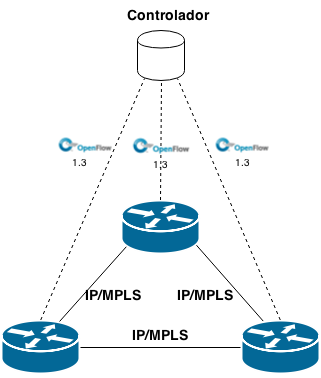
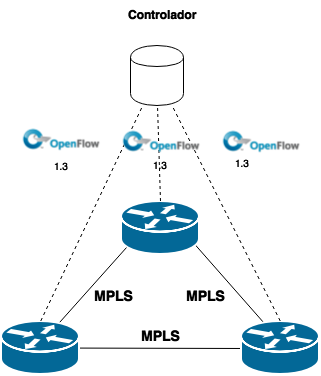
Correcciones en apendices 4 y 5 se cambia a fuente courier en lo que sea referencias a comandos y se actualzia imagen

diff --git a/Informe/Appendix3/appendix3.tex b/Informe/Appendix3/appendix3.tex
@@ -58,14 +58,15 @@ Estos atributos fueron estudiados uno por uno y se llega a las dos listas presen
 \section{Sintaxis de un flujo en Open vSwitch}
 La sintaxis del comando ovs-ofctl, utilizado para agregar un flujo en la tabla de Open vSwitch es la siguiente:
 
+
 \begin{center}
-ovs-ofctl add-flow <bridge> <flow>
+\texttt{ovs-ofctl add-flow <bridge> <flow>}
 \end{center}
 
 Los parámetros de este comando son el nombre del brdige (<bridge>) y el flujo definido. La sintaxis de un flujo es la siguiente:
 
 \begin{center}
-attr1\_name=<value>,attr2\_name=<value>,.. actions=<action1>,<action2>,...
+\texttt{attr1\_name=<value>,attr2\_name=<value>,.. actions=<action1>,<action2>,...}
 \end{center}
 
 Primero tiene una lista de pares atributo valor separados por una “,” las cuales definen la regla de un flujo; es decir, los campos del cabezal OpenFlow utilizados para aparear tr\'afico. Un ejemplo común es es utilizar el numero de puerto OpenFlow de entrada, in\_port=1 por ejemplo.
@@ -85,93 +86,93 @@ A continuaci\'on se detallan los atributos soportados para la definici\'on de re
 \item \textbf{eth\_dst}: Permite a un flujo seleccionar tr\'afico distinguiendo por la direcci\'on destino de capa 2 (dirección MAC). El valor utilizado se compone de 6 pares de hexadecimales.
 
 \begin{center}
-ovs-ofctl add-flow <bridge> dl\_dst=<mac>,actions=<action>
+\texttt{ovs-ofctl add-flow <bridge> dl\_dst=<mac>,actions=<action>}
 \end{center}
 
 \item \textbf{eth\_src}: Permite a un flujo selecionar tr\'afico distinguiendo por direcci\'on origen de capa 2 (direcci\'on MAC). El valor utilizado se compone de 6 pares de hexadecimales.
 
 \begin{center}
-ovs-ofctl add-flow <bridge> dl\_src=<mac>,actions=<action>
+\texttt{ovs-ofctl add-flow <bridge> dl\_src=<mac>,actions=<action>}
 \end{center}
 
 \item \textbf{dl\_type}: Permite a un flujo selecionar tr\'afico distinguiendo por el tipo de ethertype de un paquete. Se utiliza como valor el c\'odigo hexadecimal de cada protocolo.
 
 \begin{center}
-ovs-ofctl add-flow <bridge> dl\_type=<ethernet type>,actions=<action>
+\texttt{ovs-ofctl add-flow <bridge> dl\_type=<ethernet type>, actions=<action>}
 \end{center}
 
 \item \textbf{vlan\_vID}: Permite a un flujo selecionar tr\'afico distinguiendo por el ID de VLAN. El valor de vlan\_id es un entero en el rango 0-4095.
 
 \begin{center}
-ovs-ofctl add-flow <bridge> dl\_vlan=<vlanid>,actions=<action>
+\texttt{ovs-ofctl add-flow <bridge> dl\_vlan=<vlanid>,actions=<action>}
 \end{center}
 
 \item \textbf{vlan\_PCP}: Permite a un flujo selecionar tr\'afico distinguiendo por el valor de prioridad de VLAN. El valor dl\_vlan\_pcp es un entero en el rango 0-7.
 
 \begin{center}
-ovs-ofctl add-flow <bridge> dl\_vlan\_pcp=<value>,actions=<action>
+\texttt{ovs-ofctl add-flow <bridge> dl\_vlan\_pcp=<value>,actions=<action>}
 \end{center}
 
 \item \textbf{IP\_dscp}: Permite a un flujo selecionar tr\'afico distinguiendo por los campos IP TOS/DHCP o Ipv6 traffic class field en un paquete IP, dependiendo del dl\_type utilizado. Se utiliza junto con los valores de dl\_type 0x0800 para IPv4 y 0x86DD para IPv6. Para otros valores de dl\_type el valor del campo nw\_tos es ignorado. El atributo nw\_tos toma valores en el rango 0-255.
 
 \begin{center}
-ovs-ofctl add-flow <bridge> dl\_type=<ethernet type>, nw\_tos=<tos>, actions=<action>
+\texttt{ovs-ofctl add-flow <bridge> dl\_type=<ethernet type>, nw\_tos=<tos>, actions=<action>}
 \end{center}
 
 \item \textbf{IP\_ecn}: Permite a un flujo selecionar tr\'afico distinguiendo por el valor de los bits ECN (Explicit Congestion) en un paquete IP. Cuando el valor del campo dl\_type es 0x0800 aparea los bits ecn en el campo IP TOS IPv4 mientras que cuando se utiliza el valor 0x86DD aparea los campos de clase de tr\'afico (trafic class fields) de IPv6. Si se utiliza otro valor de dl\_type estos bits son ignorados. El campo nw\_ecn toma valores en el rango 0-3.
 
 \begin{center}
-ovs-ofctl add-flow <bridge> dl\_type=<ethernet type>, nw\_ecn=<ecn>,actions=<action>
+\texttt{ovs-ofctl add-flow <bridge> dl\_type=<ethernet type>, nw\_ecn=<ecn>,actions=<action>}
 \end{center}
 
 \item \textbf{IP\_proto}: Se utiliza para indicar el protocolo IP utilizado en la deinici\'on de un flujo. Usualmente se utiliza en conjunto con otros atributos como tp\_src y tp\_dst. Cuando se utiliza el valor del campo dl\_type debe ser o 0x0800 en el caso de IPv4 o 0x86DD para el caso IPv6. El campo nw\_proto es el n\'umero de protocolo IP (valores en el rango 0-255).
 
 \begin{center}
-ovs-ofctl add-flow <bridge> dl\_type=<ethernet type>,nw\_proto=<proto>,actions=<action>
+\texttt{ovs-ofctl add-flow <bridge> dl\_type=<ethernet type>,nw\_proto=<proto>,actions=<action>}
 \end{center}
 
 \item \textbf{IPv4\_src}: Permite a un flujo seleccionar tr\'afico distinguiendo por la dirección origen IPv4. Se debe indicar para el campo dl\_type el valor 0x0800.  
 
 \begin{center}
-ovs-ofctl add-flow <bridge> dl\_type=<ethernet type>,nw\_src=ip[/netmask],actions=<action>
+\texttt{ovs-ofctl add-flow <bridge> dl\_type=<ethernet type>, nw\_src=ip[/netmask],actions=<action>}
 \end{center}
 
 \item \textbf{IPv4\_dst}: Permite a un flujo seleccionar tr\'afico distinguiendo por la dirección destino IPv4. Se debe indicar para el campo dl\_type el valor 0x0800.  
 
 \begin{center}
-ovs-ofctl add-flow <bridge> dl\_type=<ethernet type>,nw\_dst=ip[/netmask],actions=<action>
+\texttt{ovs-ofctl add-flow <bridge> dl\_type=<ethernet type>, nw\_dst=ip[/netmask],actions=<action>}
 \end{center}
  
 \item \textbf{TCP\_src}: Permite a un flujo seleccionar tr\'afico distinguiendo por el n\'umero de puerto TCP origen. Se debe indicar para el campo dl\_type el valor 0x0800 (IPv4) y para el campo nw\_proto el valor 6 (TCP). El campo tp\_src toma valores en el rango 0-65535.
 
 \begin{center}
-ovs-ofctl add-flow <bridge> dl\_type=0x0800,nw\_proto=6,tp\_src=<port>,actions=<action>
+\texttt{ovs-ofctl add-flow <bridge> dl\_type=0x0800, nw\_proto=6,tp\_src=<port>,actions=<action>}
 \end{center}
 
 De forma análoga se utilizan los campos UDP\_src y SCP\_src para clasificar tr\'afico por los puertos origen UDP y SCTP.
 
 \begin{center}
-ovs-ofctl add-flow <bridge> dl\_type=0x0800,nw\_proto=17,tp\_src=<port>,actions=<action>
+\texttt{ovs-ofctl add-flow <bridge> dl\_type=0x0800, nw\_proto=17,tp\_src=<port>,actions=<action>}
 \end{center}
 
 \begin{center}
-ovs-ofctl add-flow <bridge> dl\_type=0x0800,nw\_proto=132,tp\_src=<port>,actions=<action>
+\texttt{ovs-ofctl add-flow <bridge> dl\_type=0x0800, nw\_proto=132,tp\_src=<port>,actions=<action>}
 \end{center}
 
 \item \textbf{TCP\_dst}: Permite a un flujo seleccionar tr\'afico distinguiendo por el n\'umero de puerto TCP destino. Se debe indicar para el campo dl\_type el valor 0x0800 (IPv4) y para el campo nw\_proto el valor 6 (TCP). El campo tp\_dst toma valores en el rango 0-65535.
 
 \begin{center}
-ovs-ofctl add-flow <bridge> dl\_type=0x0800,nw\_proto=6,tp\_dst=<port>,actions=<action>
+\texttt{ovs-ofctl add-flow <bridge> dl\_type=0x0800, nw\_proto=6,tp\_dst=<port>,actions=<action>}
 \end{center}
 
 De forma análoga se utilizan los campos UDP\_dst y SCP\_dst para clasificar tr\'afico por los puertos destino UDP y SCTP.
 
 \begin{center}
-ovs-ofctl add-flow <bridge> dl\_type=0x0800,nw\_proto=17,tp\_dst=<port>,actions=<action>
+\texttt{ovs-ofctl add-flow <bridge> dl\_type=0x0800, nw\_proto=17,tp\_dst=<port>,actions=<action>}
 \end{center}
 
 \begin{center}
-ovs-ofctl add-flow <bridge> dl\_type=0x0800,nw\_proto=132,tp\_dst=<port>,actions=<action>
+\texttt{ovs-ofctl add-flow <bridge> dl\_type=0x0800, nw\_proto=132,tp\_dst=<port>,actions=<action>}
 \end{center}
 
 %\item \textbf{UDP\_src}: Permite a un flujo seleccionar tr\'afico distinguiendo por el n\'umero de puerto UDP origen. Se debe indicar para el campo dl\_type el valor 0x0800 (IPv4) y para el campo nw\_proto el valor 17 (UDP). El campo tp\_src toma valores en el rango 0 \dots 65535.
@@ -201,25 +202,25 @@ ovs-ofctl add-flow <bridge> dl\_type=0x0800,nw\_proto=132,tp\_dst=<port>,actions
 \item \textbf{ICMPv4\_type}: Permite a un flujo seleccionar tr\'afico distinguiendo por tipo de paquete ICMPv4. Open vSwitch utiliza el mismo campo para la definici\'on del tipo ICMPv4 o ICMPv6 en un flujo (icmp\_type). Se debe indicar en el campo dl\_type el valor 0x0800(IPv4) o 0x86DD (IPv6) y en el campo nw\_proto el valor 1 (ICMPv4) o 58 (ICMPv6). El campo icmp\_type toma valores en el rango 0-255.
 
 \begin{center}
-ovs-ofctl add-flow<bridge> dl\_type=<ethernettype>,nw\_proto=1,icmp\_type=<type>,actions=<action>
+\texttt{ovs-ofctl add-flow<bridge> dl\_type=<ethernettype>,nw\_proto=1, icmp\_type=<type>,actions=<action>}
 \end{center}
 
 \item \textbf{ICMPv4\_code}: Permite a un flujo seleccionar tr\'afico distinguiendo por código de paquete ICMPv4. Open vSwitch utiliza el mismo campo para la definici\'on del c\'odigo ICMPv4 o ICMPv6 en un flujo (icmp\_code). Se debe indicar en el campo dl\_type el valor 0x0800 para IPv4 o 0x86DD para IPv6 y en el campo nw\_proto el valor 1 para ICMPv4 o 58 para ICMPv6 respectivamente. El campo icmp\_code toma valores en el rango 0-255.
 
 \begin{center}
-ovs-ofctl add-flow<bridge> dl\_type=<ethernettype>,nw\_proto=[1|58],icmp\_code=<type>,actions=<action>
+\texttt{ovs-ofctl add-flow<bridge> dl\_type=<ethernet type>, nw\_proto=[1|58],icmp\_code=<type>,actions=<action>}
 \end{center}
 
 \item \textbf{IPv6\_src}: Permite a un flujo seleccionar tr\'afico distinguiendo por la dirección origen IPv6. Se debe indicar para el campo dl\_type el valor 0x86DD. 
 
 \begin{center}
-ovs-ofctl add-flow<bridge> dl\_type=0x86DD,ipv6\_src=<ipv6[/netmask]>,actions=<action>
+\texttt{ovs-ofctl add-flow<bridge> dl\_type=0x86DD, ipv6\_src=<ipv6[/netmask]>,actions=<action>}
 \end{center}
 
 \item \textbf{IPv6\_dst}: Permite a un flujo seleccionar tr\'afico distinguiendo por la dirección destino IPv6. Se debe indicar para el campo dl\_type el valor 0x86DD. 
 
 \begin{center}
-ovs-ofctl add-flow<bridge> dl\_type=0x86DD,ipv6\_dst=<ipv6[/netmask]>,actions=<action>
+\texttt{ovs-ofctl add-flow<bridge> dl\_type=0x86DD, ipv6\_dst=<ipv6[/netmask]>,actions=<action>}
 \end{center}
 
 \item \textbf{ICMPv6\_type}: Ver campo ICMP\_type por ejemplo acerca de la utilización de este campo. 
@@ -229,19 +230,19 @@ ovs-ofctl add-flow<bridge> dl\_type=0x86DD,ipv6\_dst=<ipv6[/netmask]>,actions=<a
 \item \textbf{MPLS\_label}:  Permite a un flujo seleccionar tr\'afico distinguiendo por el valor de etiqueta MPLS. Se debe indicar para el campo dl\_type el valor 0x8847 o 0x8848. El campo label toma valores en el rango 0-1048575.
 
 \begin{center}
-ovs-ofctl add-flow<bridge> dl\_type=[0x8847|0x8848]ovs-ofctl,mpls\_label=<label>,actions=<action>
+\texttt{ovs-ofctl add-flow<bridge> dl\_type=[0x8847|0x8848]ovs-ofctl, mpls\_label=<label>,actions=<action>}
 \end{center}
 
 \item \textbf{MPLS\_tc}: Permite a un flujo seleccionar tr\'afico distinguiendo por el valor del campo TC en el cabezal MPLS (para uso experimental). Se debe indicar para el campo dl\_type el valor 0x8847 o 0x8848. El campo mpls\_tc toma valores en el rango 0-7.
 
 \begin{center}
-ovs-ofctl add-flow<bridge> dl\_type=[0x8847|0x8848],mpls\_tc=<tc>,actions=<action>
+\texttt{ovs-ofctl add-flow<bridge> dl\_type=[0x8847|0x8848],mpls\_tc=<tc>,actions=<action>}
 \end{center}
 
 \item \textbf{MPLS\_bos}: Permite a un flujo seleccionar tr\'afico distinguiendo por el valor del campo BOS (Bottom of the stack) en el cabezal MPLS. Se debe indicar para el campo dl\_type el valor 0x8847 o 0x8848. El campo mpls\_bos toma valores 1 cuando el paquete contiene una única etiqueta MPLS y 0 cuando contiene m\'as de una etiqueta en el stack.
 
 \begin{center}
-ovs-ofctl add-flow<bridge> dl\_type=[0x8847|0x8848],mpls\_bos=<mpls\_bos>,actions=<action>
+\texttt{ovs-ofctl add-flow<bridge> dl\_type=[0x8847|0x8848], mpls\_bos=<mpls\_bos>,actions=<action>}
 \end{center}
 
 \end{itemize}
@@ -254,50 +255,50 @@ A continuaci\'on se detallan los atributos soportados para la definici\'on de ac
 \item \textbf{eth\_src}: Permite modificar el valor de direcci\'on origen de capa 2 (direcci\'on MAC).
 
 \begin{center}
-ovs-ofctl add-flow<bridge><match-field>actions=mod\_dl\_src:<mac>
+\texttt{ovs-ofctl add-flow<bridge><match-field>actions=mod\_dl\_src:<mac>}
 \end{center}
 
 \item \textbf{eth\_dst}: Permite modificar el valor de direcci\'on destino de capa 2 (direcci\'on MAC).
 
 \begin{center}
-ovs-ofctl add-flow<bridge><match-field>actions=mod\_dl\_dst:<mac>
+\texttt{ovs-ofctl add-flow<bridge><match-field>actions=mod\_dl\_dst:<mac>}
 \end{center}
 
 \item \textbf{vlan\_vID}: Permite modificar el valor del campo VLAN ID (identificador de VLAN).
                          
 \begin{center}
-ovs-ofctl add-flow <bridge> <match-field> actions=push\_vlan:<ethertype>,set\_field:<value>-\textbackslash >vlan\_vid,output:<port>
+\texttt{ovs-ofctl add-flow <bridge> <match-field> actions=push\_vlan:<ethertype>,set\_field:<value>-\textbackslash >vlan\_vid,output:<port>}
 \end{center}
 
 \item \textbf{vlan\_PCP}: Permite modificar el valor del campo VLAN PCP (prioridad de VLAN).
 
 \begin{center}
-ovs-ofctl add-flow<bridge><match-field>actions=mod\_vlan\_pcp:<vlan\_pcp>
+\texttt{ovs-ofctl add-flow<bridge><match-field>actions=mod\_vlan\_pcp:<vlan\_pcp>}
 \end{center}
 
 \item \textbf{IP\_dscp}: Permite modificar el valor de los bits TOS en el un cabezal IP. Esta acci\'on no modifica los 2 bits m\'as bajos del campo, los cuales representan los bits ECN.
 
 \begin{center}
-ovs-ofctl add-flow<bridge><match-field>actions=mod\_nw\_tos:<tos>
+\texttt{ovs-ofctl add-flow<bridge><match-field>actions=mod\_nw\_tos:<tos>}
 \end{center}
 
 \item \textbf{IPv4\_src}: Permite modificar el valor de direcci\'on origen de capa 3 (IP).
 
 \begin{center}
-ovs-ofctl add-flow<bridge><match-field>actions=mod\_nw\_src:<ip>
+\texttt{ovs-ofctl add-flow<bridge><match-field>actions=mod\_nw\_src:<ip>}
 \end{center}
 
 \item \textbf{IPv4\_dst}: Permite modificar el valor de direcci\'on destino de capa 3 (IP).
 
 \begin{center}
-ovs-ofctl add-flow<bridge><match-field>actions=mod\_nw\_dst:<ip>
+\texttt{ovs-ofctl add-flow<bridge><match-field>actions=mod\_nw\_dst:<ip>}
 \end{center}
 
 
 \item \textbf{TCP\_src}: Permite modificar el valor de puerto TCP origen de un paquete. Debe seleccionarse mediante la regla del flujo tr\'afico TCP para distinguirlo explicitamente de otro tipo de tr\'afico. 
 
 \begin{center}
-ovs-ofctl add-flow<bridge><match-field>actions=mod\_tp\_src:<port>
+\texttt{ovs-ofctl add-flow<bridge><match-field>actions=mod\_tp\_src:<port>}
 \end{center}
 
 De forma similar utilizando la misma primitiva y los campos \textbf{UDP\_src} y \textbf{SCTP\_src} se modifican puerto origen UDP y SCTP.
@@ -305,7 +306,7 @@ De forma similar utilizando la misma primitiva y los campos \textbf{UDP\_src} y 
 \item \textbf{TCP\_dst}: Permite modificar el valor de puerto TCP destino de un paquete. Debe seleccionarse mediante la regla del flujo tr\'afico TCP para distinguirlo explicitamente de otro tipo de tr\'afico. 
 
 \begin{center}
-ovs-ofctl add-flow<bridge><match-field>actions=mod\_tp\_dst:<port>
+\texttt{ovs-ofctl add-flow<bridge><match-field>actions=mod\_tp\_dst:<port>}
 \end{center}
             
 De forma similar utilizando la misma primitiva y los campos \textbf{UDP\_dst} y \textbf{SCTP\_dst} se modifica el puerto destino UDP y SCTP. 
@@ -313,21 +314,21 @@ De forma similar utilizando la misma primitiva y los campos \textbf{UDP\_dst} y 
 \item \textbf{MPLS\_label}: Permite manipular el valor de una etiqueta en un cabezal mpls. Las primitivas existentes son PUSH y POP.
 
 \begin{center}
-ovs-ofctl add-flow <bridge> <match-field> dl\_type=[0x8847 | 0x8848],actions=push\_mpls:<ethertype>,set\_field:<value>-\textbackslash >mpls\_label
+\texttt{ovs-ofctl add-flow <bridge> <match-field> dl\_type=[0x8847 | 0x8848],actions=push\_mpls:<ethertype>,set\_field:<value>-\textbackslash >mpls\_label}
 \end{center}
 
 \begin{center}
-ovs-ofctl add-flow<bridge><match-field>actions=set\_field:<label>-\textbackslash >mpls\_label
+\texttt{ovs-ofctl add-flow<bridge> <match-field> actions=set\_field:<label>-\textbackslash >mpls\_label}
 \end{center}
-
+ 
 \begin{center}
-ovs-ofctl add-flow<bridge><match-field>actions=pop\_mpls:<ethertype>
+\texttt{ovs-ofctl add-flow<bridge> <match-field> actions=pop\_mpls:<ethertype>}
 \end{center}
 
 \item \textbf{MPLS\_tc}: Permite modificar el valor de los bits experimentales en el cabezal mpls.
 
 \begin{center}
-ovs-ofctl add-flow<bridge><match-field>actions=set\_field:<label>-\textbackslash >mpls\_tc
+\texttt{ovs-ofctl add-flow<bridge> <match-field> actions=set\_field:<label>-\textbackslash >mpls\_tc}
 \end{center}
 
 \end{itemize}

diff --git a/Informe/Chapter4/chapter4.tex b/Informe/Chapter4/chapter4.tex
@@ -81,7 +81,7 @@ En el controlador SDN se ejecuta \gloss{RAUFlow}, la aplicaci\'on encargada de p
 \label{fig:OpenSourceRArch0}
 \end{figure}
 
-Por otro lado se tiene el switch compatible con el protocolo OpenFlow. Este dispositivo, denominado de aqu\'i en m\'as \gloss{RAU-Switch}, es implementado mediante una PC de escritorio con el hardware NetFPGA instalado y el software \gloss{Open vSwitch} entre otras componentes.\\ 
+Por otro lado se tiene el switch compatible con el protocolo OpenFlow. Este dispositivo, denominado de aqu\'i en m\'as \gloss{RAU-Switch}, es implementado mediante una PC de escritorio con el hardware NetFPGA instalado y el software \gloss{OpenVSwitch} entre otras componentes.\\ 
 
 Para la implementaci\'on del plano de reenvío (encaminar un paquete de un nodo origen a otro destino), en cada nodo del prototipo se utilizan las tablas de flujos de OpenFlow. Mediante el esquema de flujos de OpenFlow se definen reglas de reenv\'io en base a la conmutaci\'on de etiquetas MPLS, as\'i como pol\'iticas de clasificaci\'on de tr\'afico.\\
 

diff --git a/Informe/Appendix5/appendix5.tex b/Informe/Appendix5/appendix5.tex
@@ -15,8 +15,7 @@ En el presente anexo se incluyen una guía para la ejecuci\'on de la aplicaci\'o
 Para ejecutar la aplicaci\'on es necesario iniciar el controlador Ryu y ejecutar las cuatro aplicaciones Ryu incluidas en la arquitectura. Para ello se ejecuta el siguiente comando en el directorio Proyecto/ryu-master dentro de la estructura de directorios del proyecto.
 
 \begin{center}
-./bin/ryu run --observe-links ryu/app/proyecto/businessLogic/RAUFlowApp.py
-
+\texttt{./bin/ryu run --observe-links ryu/app/proyecto/businessLogic/RAUFlowApp.py}
 \end{center}
 
 \begin{figure}[h] 
